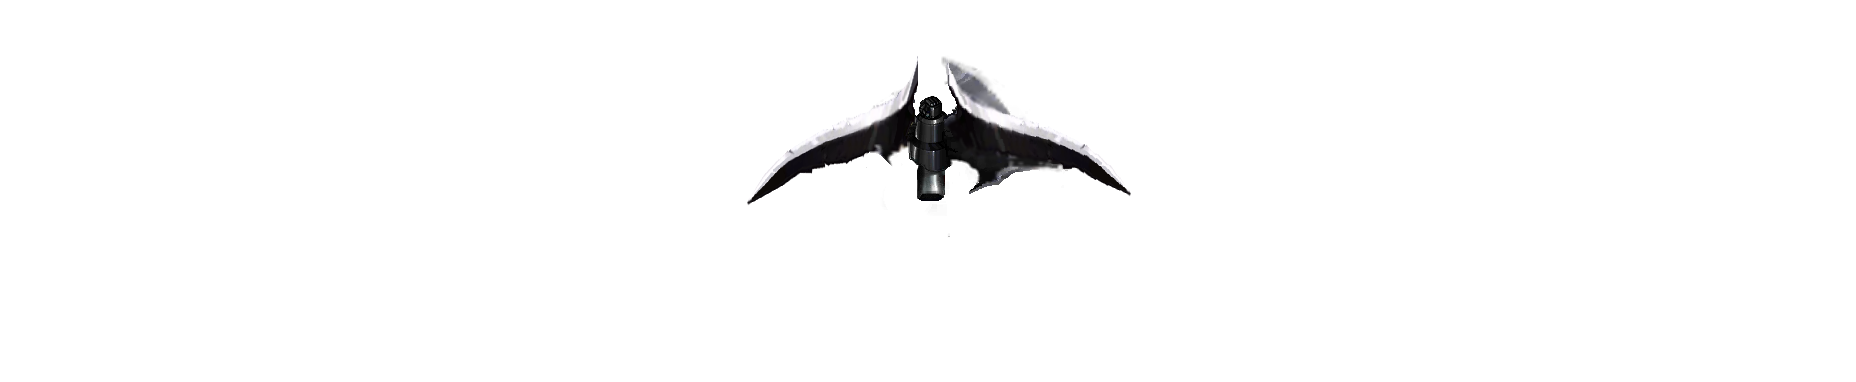
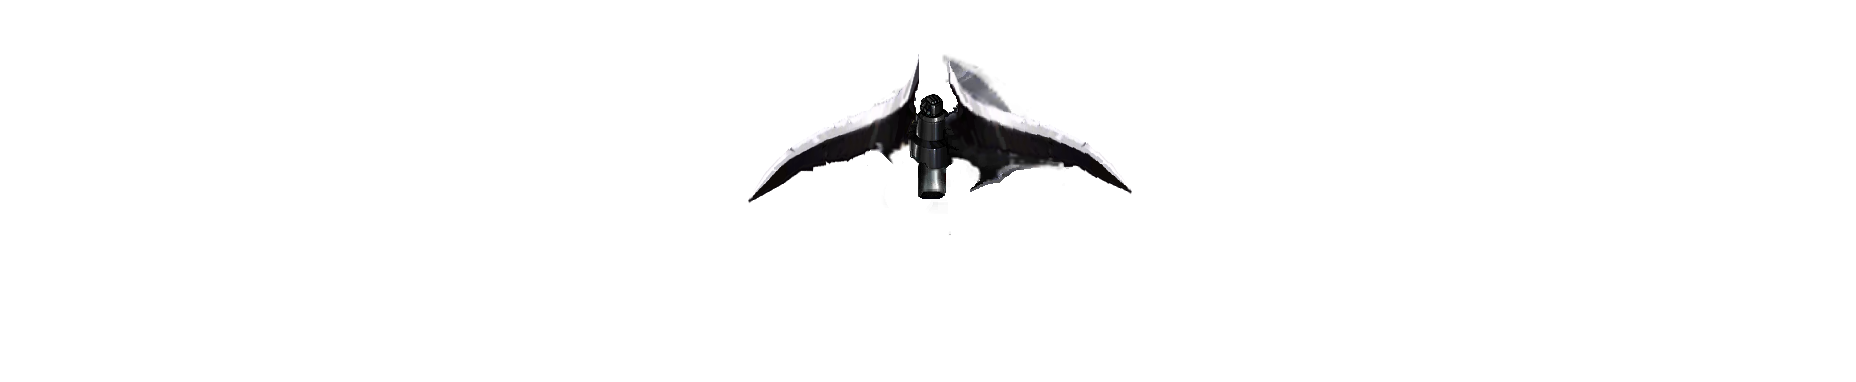
Polishing Mazinger Zero! 4G forever! Working on weapon revamp Todo:Revamp, Giant Iron Cutter, Zero Scrander Weapon revamp

Changed region(s): [[0.4375, 0.144, 0.625, 0.5183], [0.4062, 0.4319, 0.4375, 0.4895], [0.4062, 0.3743, 0.4375, 0.4031]]

diff --git a/src/data/weapons/scripts/AEG_GiantIronCutterEffect.java b/src/data/weapons/scripts/AEG_GiantIronCutterEffect.java
@@ -1,0 +1,138 @@
+package data.weapons.scripts;
+
+import com.fs.starfarer.api.combat.*;
+import com.fs.starfarer.api.util.Misc;
+import org.lwjgl.util.vector.Vector2f;
+
+import java.awt.*;
+
+public class AEG_GiantIronCutterEffect implements EveryFrameWeaponEffectPlugin {
+    private boolean charging = false;
+    private boolean fired = false;
+    private float chargeTimer = 0f;
+
+    private static final float TRANSFORM_DURATION = 3f;
+    private static final float TOTAL_CHARGE_TIME = 6f;
+    private static final int TRANSFORM_FRAMES = 16;
+
+    private float particleTimer = 0f;
+    private static final float PARTICLE_INTERVAL = 0.05f;
+    private static final int PARTICLE_COUNT = 3;
+
+    private int lastFrame = -1;
+
+    @Override
+    public void advance(float amount, CombatEngineAPI engine, WeaponAPI weapon) {
+        if (engine.isPaused() || weapon == null) return;
+
+        float cooldown = weapon.getCooldownRemaining();
+        int ammo = weapon.getAmmo();
+
+        // Begin charge when weapon enters cooldown
+        if (cooldown > 0 && !charging && !fired) {
+            charging = true;
+            fired = false;
+            chargeTimer = 0f;
+            lastFrame = -1;
+        }
+
+        // CHARGING: 0s–3s → animate frames 0–15
+        if (charging && chargeTimer < TRANSFORM_DURATION) {
+            chargeTimer += amount;
+
+            int frame = Math.min((int)((chargeTimer / TRANSFORM_DURATION) * TRANSFORM_FRAMES), TRANSFORM_FRAMES - 1);
+            if (frame != lastFrame) {
+                weapon.getAnimation().setFrame(frame);
+                lastFrame = frame;
+            }
+
+            handleParticles(amount, engine, weapon);
+        }
+
+        // CHARGE COMPLETE: 3s–6s → hold frame 15
+        if (charging && chargeTimer >= TRANSFORM_DURATION && chargeTimer < TOTAL_CHARGE_TIME && !fired) {
+            if (lastFrame != 15) {
+                weapon.getAnimation().setFrame(15);
+                lastFrame = 15;
+            }
+            handleParticles(amount, engine, weapon);
+        }
+
+        // FIRING: at 6s mark → switch to frame 16
+        if (charging && chargeTimer >= TOTAL_CHARGE_TIME && !fired) {
+            weapon.getAnimation().setFrame(16);
+            lastFrame = 16;
+            fired = true;
+        }
+        // POST-FIRE COOLDOWN & AMMO SPENT: hold frame 17
+        if (fired || cooldown > 0 || weapon.getAmmo() <= 0) {
+            if (lastFrame != 17) {
+                weapon.getAnimation().setFrame(17);
+                lastFrame = 17;
+            }
+            handleParticles(amount, engine, weapon);
+        }
+
+
+        // RESET: once reloaded & ammo restored → frame 0
+        if (fired && cooldown <= 0 && ammo > 0) {
+            weapon.getAnimation().setFrame(0);
+            lastFrame = 0;
+            fired = false;
+            charging = false;
+            chargeTimer = 0f;
+        }
+    }
+
+    private void handleParticles(float amount, CombatEngineAPI engine, WeaponAPI weapon) {
+        particleTimer += amount;
+        if (particleTimer >= PARTICLE_INTERVAL) {
+            particleTimer -= PARTICLE_INTERVAL;
+            spawnPhotonParticles(engine, weapon);
+        }
+    }
+
+    private void spawnPhotonParticles(CombatEngineAPI engine, WeaponAPI weapon) {
+        Vector2f loc = weapon.getLocation();
+        Vector2f shipVel = weapon.getShip().getVelocity();
+
+        for (int i = 0; i < PARTICLE_COUNT; i++) {
+            float angle = (float)(Math.random() * 360f);
+            float distance = 4f + (float)(Math.random() * 12f);
+            float speed = 10f + (float)Math.random() * 20f;
+
+            Vector2f offset = Misc.getUnitVectorAtDegreeAngle(angle);
+            offset.scale(distance);
+            Vector2f particleLoc = Vector2f.add(loc, offset, null);
+
+            Vector2f vel = Misc.getUnitVectorAtDegreeAngle(angle + 180f);
+            vel.scale(speed);
+            Vector2f.add(vel, shipVel, vel);
+
+            float size = 10f + (float)Math.random() * 20f;
+            float endSize = size * (1.5f + (float)Math.random());
+            float duration = 1.5f + (float)Math.random() * 1f;
+
+            Color color = pickEnergyColor();
+
+            engine.addNebulaParticle(
+                    particleLoc,
+                    vel,
+                    size,
+                    endSize / size,
+                    0.3f,
+                    0.6f,
+                    duration,
+                    color
+            );
+        }
+    }
+
+    private Color pickEnergyColor() {
+        if (Math.random() < 0.5) {
+            return new Color(255, 220 + (int)(Math.random() * 30), 130 + (int)(Math.random() * 50), 180);
+        } else {
+            return new Color(255, 160 + (int)(Math.random() * 30), 80 + (int)(Math.random() * 50), 170);
+        }
+    }
+}
